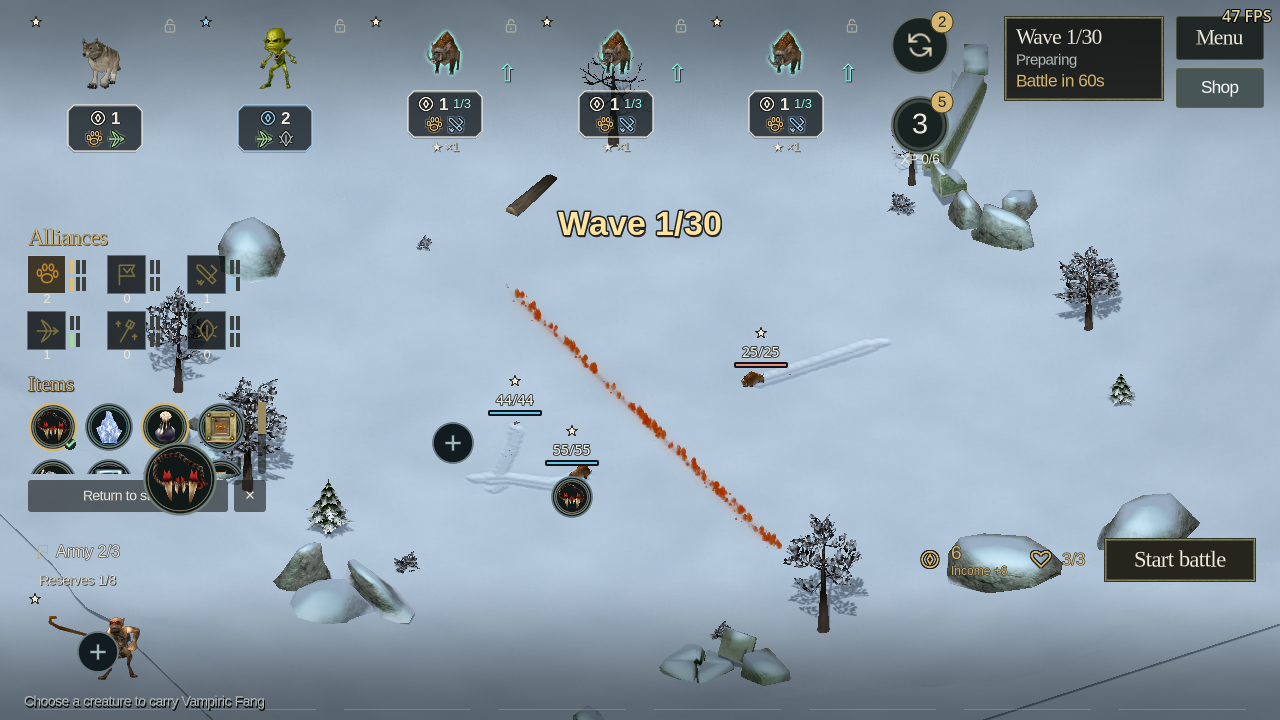
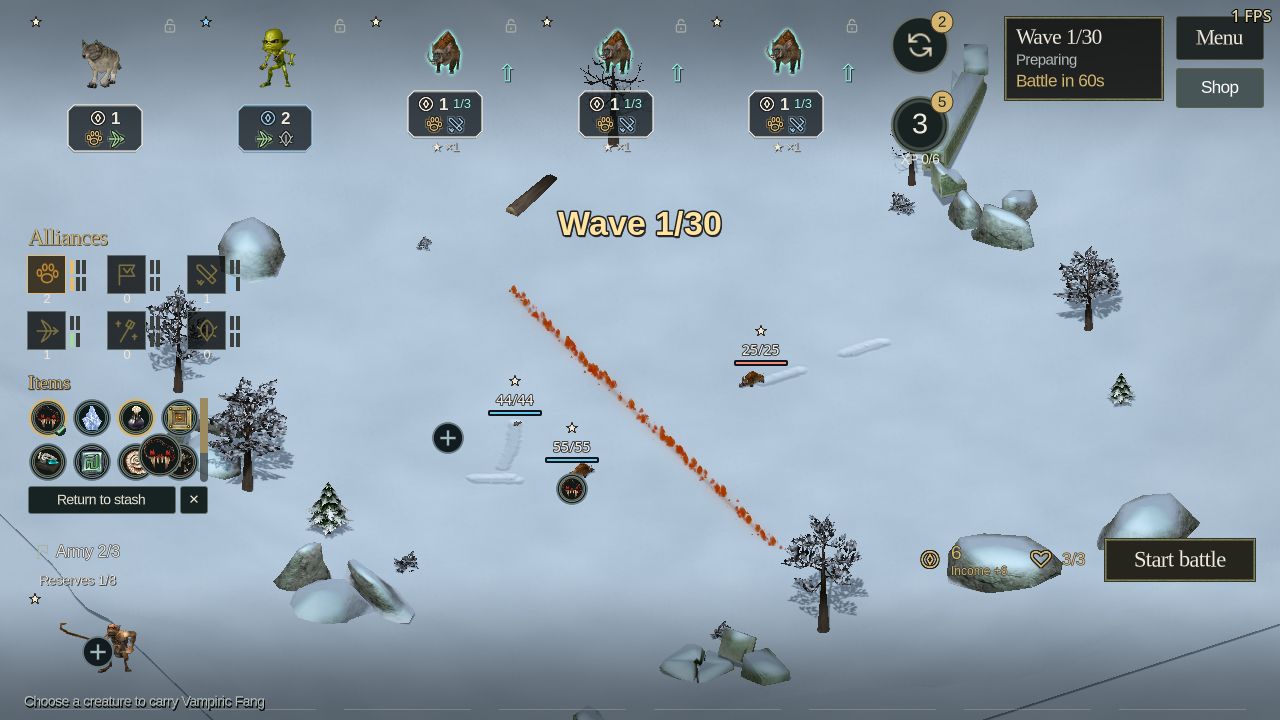
Compact autochess item assignment controls

diff --git a/CHANGELOG.md b/CHANGELOG.md
@@ -3,7 +3,7 @@
 ## Unreleased
 
 - Add eight equippable Autochess items with one slot per creature and a shared inventory. Choose one of three items after rounds 3, 5, 10 and subsequent multiples of five. Reassign equipment during preparation; selling and merging return spare items to the inventory. Saves, undo, bots, scouting and online play preserve ownership and the equipment used by each battle.
-- Show items in a persistent tray beneath alliances, using pictures of original game items and hover details. Choose rewards from three stone-and-metal framed cards with large item artwork, effect roles, highlighted values and clear selection actions. Assign equipment directly to field or reserve creatures by dragging or selecting targets, or return it to the stash. Keyboard controls support the same assignments.
+- Show items in a compact persistent tray beneath alliances, using pictures of original game items and hover details. Small creature targets and a pointer-offset drag preview keep assignment clear; the return control sits below complete icon rows. Choose rewards from three stone-and-metal framed cards with large item artwork, effect roles, highlighted values and clear selection actions. Assign equipment directly to field or reserve creatures by dragging or selecting targets, or return it to the stash. Keyboard controls support the same assignments.
 - Give the six Autochess alliances tactical effects: coordinated Beast strikes, Horde retaliation, nearby Warrior guards, Hunter focus on enemy casters, combined Mage spells and aid from fallen Spirits. Localized help explains their range and limits, and short combat notices identify triggered effects.
 - Add Orc warriors and Woodsfolk seers, each with three original visual stages and portraits. Improve three-star Skeleton health and Cyclops damage, reduce three-star Elemental health and Dragon damage, and correct the light/dark bat portraits. Equipment and alliance controls support English, Russian and German at 720p and 1080p.
 - Advance the internal Autochess save schema to 14 and its online protocol to 2. Existing saves retain their recruits and start with an empty equipment inventory; online participants need matching builds.

diff --git a/docs/validation/autochess-equipment-ui-2026-10-23.md b/docs/validation/autochess-equipment-ui-2026-10-23.md
@@ -32,6 +32,36 @@ Field badges avoid every visible creature's HP and star rectangle, including
 neighboring creatures. Reward cards isolate background input and keep focus
 inside the modal. Opening and closing them restores the tray's editing state.
 
+## Compact assignment controls
+
+The follow-up size refinement uses 40 px tray slots (previously 50), 34 px
+assignment targets (44), 28 px equipped badges (32), and a 44 px drag preview
+(74). The preview sits beside the pointer, keeping the drop target visible.
+The tray takes only its required width, with 4 px gaps and a 28 px return row.
+Scrolling reserves complete icon rows above that control. Reward cards and item
+description text retain their readable sizes. Empty targets and the return row
+appear only during assignment; equipped badges remain visible afterward.
+
+The current source passed 173 checks on isolated GPU Lab virtual displays,
+submitted with automatic GPU scheduling and the X11/Dummy audio drivers:
+
+| Evidence run | Language/window | Checks | GPU Lab job |
+| --- | --- | ---: | --- |
+| `compact-items-en-720` | English, 1280 × 720 | 28 | `521c519789d74a59` |
+| `compact-items-de-720` | German, 1280 × 720 | 28 | `631f301894a349dc` |
+| `compact-items-ru-720` | Russian, 1280 × 720 | 28 | `814b0a66707a4451` |
+| `compact-items-de-1080` | German, 1920 × 1080 | 28 | `4706c1cb372047a9` |
+| `compact-items-input-en` | English, 1280 × 720 | 61 | `b5008346bb494459` |
+
+Visual review confirmed readable translated return controls, complete visible
+item rows, smaller targets and badges, and clearance around HP and stars. The
+61 interaction checks include native drags, returning to stash, swapping,
+cancellation, keyboard navigation and combat inspection. All fixtures exited
+successfully without captured UI errors. Startup diagnostics on the virtual
+displays include the existing OpenGL antialiasing warning and a null-monitor
+refresh-rate query from crash-report metadata, before the fixture begins.
+Complete GPU job metadata and combined logs are retained beside each profile.
+
 ## Rendered interaction checks
 
 `tools/tests/arena_equipment_ui.gd` ran against native game assets in Godot 4.7,

diff --git a/docs/validation/autochess-equipment-alliances-2026-10-23.md b/docs/validation/autochess-equipment-alliances-2026-10-23.md
@@ -126,6 +126,23 @@ The nine-board worker test checks execution parity and clocks; it is not a claim
 about rendered frame rates. Rendered validation here used Linux OpenGL; no new
 Windows, macOS or Android package was built as part of this source change.
 
+## Follow-up bot and balance verification
+
+After the item artwork and compact assignment UI changes, the gameplay sources
+remain unchanged from the expansion commit. Fresh CPU-only checks passed:
+`compact-items-verify-bot-planner` (21), `compact-items-verify-bot-formation`
+(107), and `compact-items-verify-equipment` (51), for 179 checks in total.
+These cover item selection and carrier suitability, reward ownership, upgrade
+purchases, and legal positioning with measured native creature bodies.
+
+`compact-items-verify-composition` reran the 24 equal-cost native fights: mixed
+and assault each won nine, casters won six, and screened casters won none. Every
+outcome and duration matches the earlier probe; all fights ended by defeat.
+This composition probe does not equip items. The equipment-inclusive evidence
+remains the four complete tournaments above, and the Mage/Spirit composition
+watchpoint remains open. The isolated profiles and fresh logs are under the
+same task `runs/` directory.
+
 ## Reproduce
 
 Use the game tool entry point with a valid original-data path and an isolated
